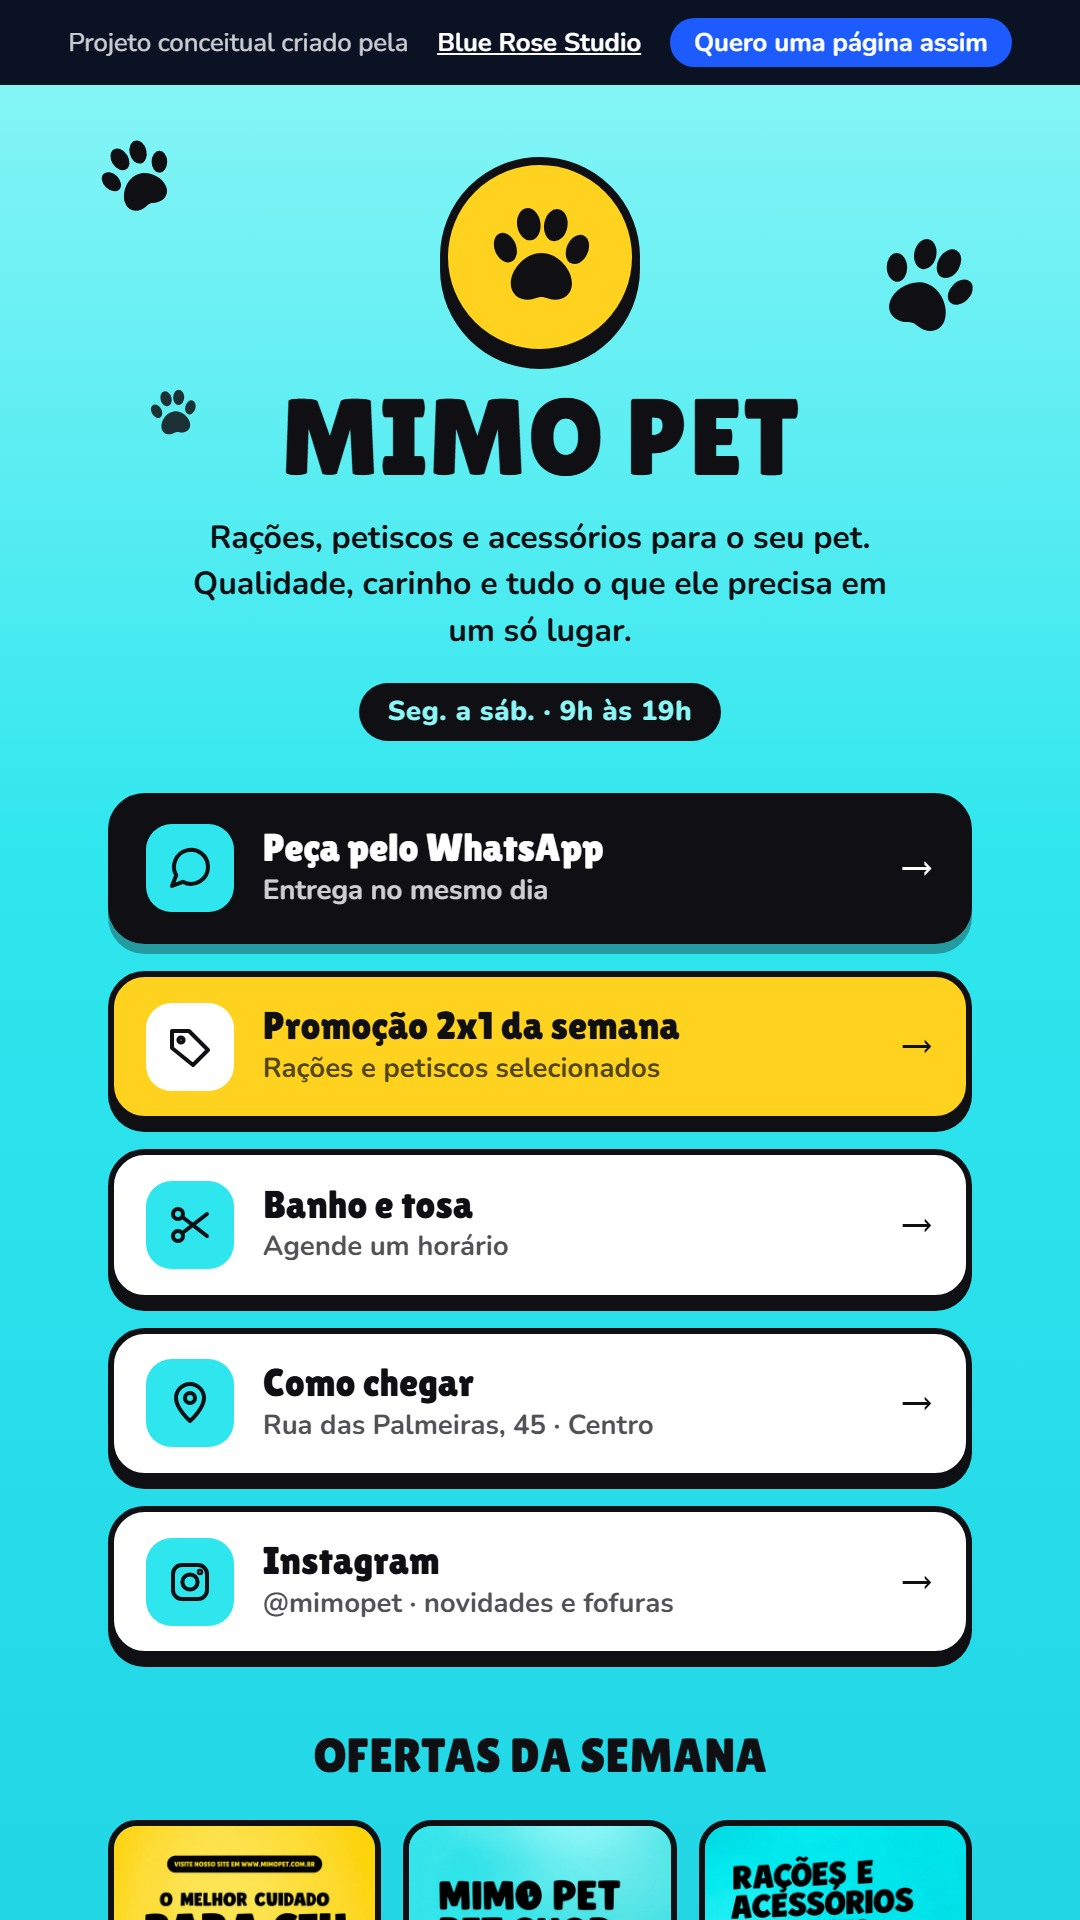
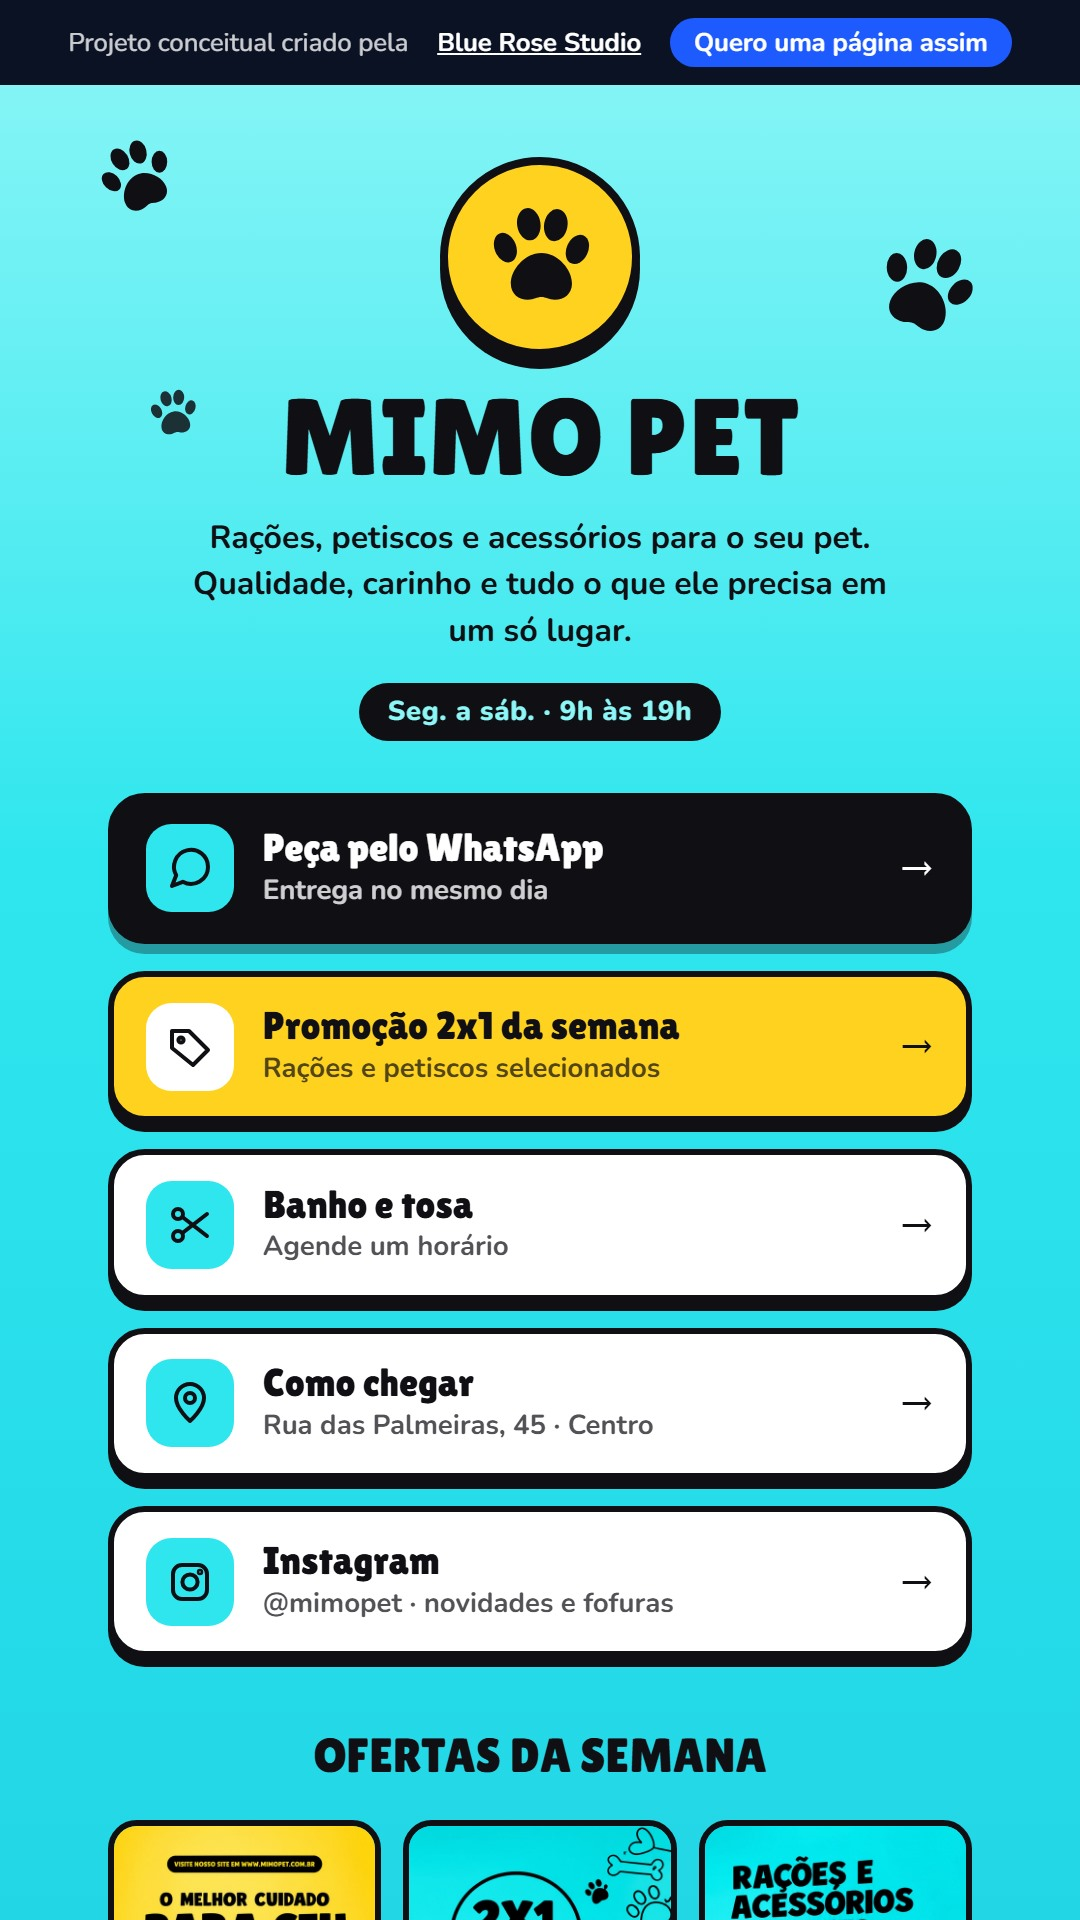
Remove do portfolio dois stories do pet shop com texto de preenchimento

Changed region(s): [[0.3667, 0.9375, 0.6417, 1.0]]

diff --git a/assets/js/script.js b/assets/js/script.js
@@ -92,7 +92,7 @@ const PROJETOS = [
   {
     titulo: 'Stories para pet shop',
     categoria: 'Pet shops',
-    descricao: 'Pacote de 9 stories para pet shop, com promoção 2x1, rações e acessórios e campanha de adoção.',
+    descricao: 'Pacote de 7 stories para pet shop, com promoção 2x1, rações e acessórios e campanha de adoção.',
     selo: 'Projeto conceitual',
     formato: '9 / 16',
     unidade: 'stories',
@@ -104,8 +104,6 @@ const PROJETOS = [
       './assets/images/portfolio/petshop-5-melhor-cuidado.jpg',
       './assets/images/portfolio/petshop-6-racoes-acessorios.jpg',
       './assets/images/portfolio/petshop-7-mimo-pet.jpg',
-      './assets/images/portfolio/petshop-8-desconto.jpg',
-      './assets/images/portfolio/petshop-9-melhor-racao.jpg',
     ],
   },
   {
@@ -194,8 +192,6 @@ const COMPARACOES = [
       { nome: 'Gato', antes: 'petshop-antes-5-melhor-cuidado.jpg', depois: 'petshop-5-melhor-cuidado.jpg' },
       { nome: 'Acessórios', antes: 'petshop-antes-6-racoes-acessorios.jpg', depois: 'petshop-6-racoes-acessorios.jpg' },
       { nome: 'Rações', antes: 'petshop-antes-7-mimo-pet.jpg', depois: 'petshop-7-mimo-pet.jpg' },
-      { nome: 'Desconto', antes: 'petshop-antes-8-desconto.jpg', depois: 'petshop-8-desconto.jpg' },
-      { nome: 'Petiscos', antes: 'petshop-antes-9-melhor-racao.jpg', depois: 'petshop-9-melhor-racao.jpg' },
     ],
   },
 ];

diff --git a/mimopet.html b/mimopet.html
@@ -68,7 +68,7 @@
       <h2 id="ofertas-titulo">Ofertas da semana</h2>
       <div class="offers-row">
         <img src="./assets/images/portfolio/petshop-2-cuidado-amigo.jpg" alt="Oferta 2x1 em rações, petiscos e acessórios" loading="lazy" width="1080" height="1920">
-        <img src="./assets/images/portfolio/petshop-8-desconto.jpg" alt="Desconto da semana na MimoPet" loading="lazy" width="1080" height="1920">
+        <img src="./assets/images/portfolio/petshop-6-racoes-acessorios.jpg" alt="Rações e acessórios em oferta na MimoPet" loading="lazy" width="1080" height="1920">
         <img src="./assets/images/portfolio/petshop-4-racoes-coleira.jpg" alt="Rações e coleiras em promoção" loading="lazy" width="1080" height="1920">
       </div>
     </section>

diff --git a/index.html b/index.html
@@ -356,6 +356,6 @@
 
   <script src="./assets/js/config.js?v=19"></script>
   <script src="./assets/js/links.js?v=19"></script>
-  <script src="./assets/js/script.js?v=21"></script>
+  <script src="./assets/js/script.js?v=22"></script>
 </body>
 </html>
